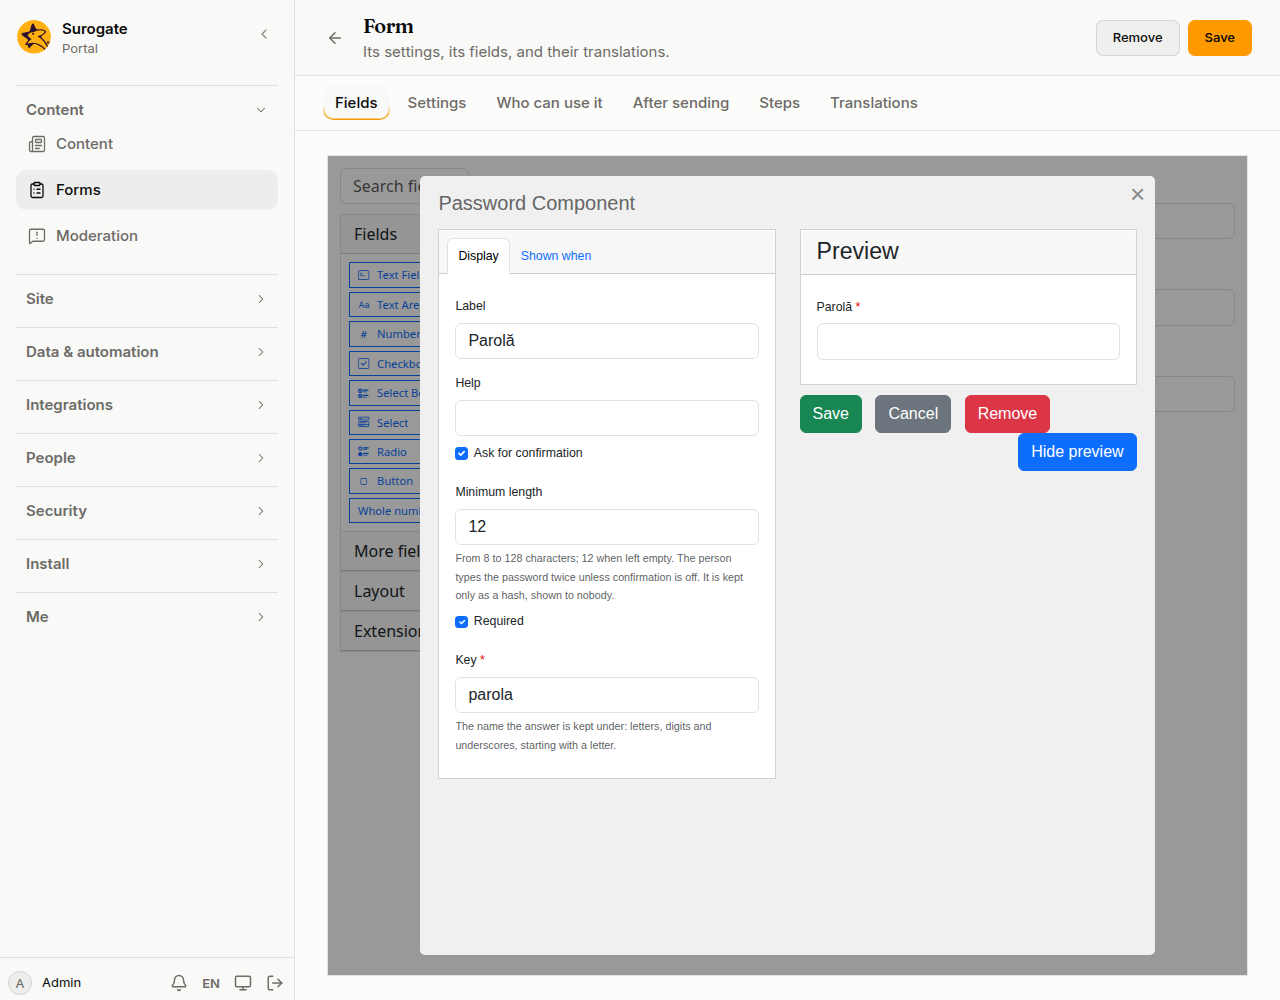
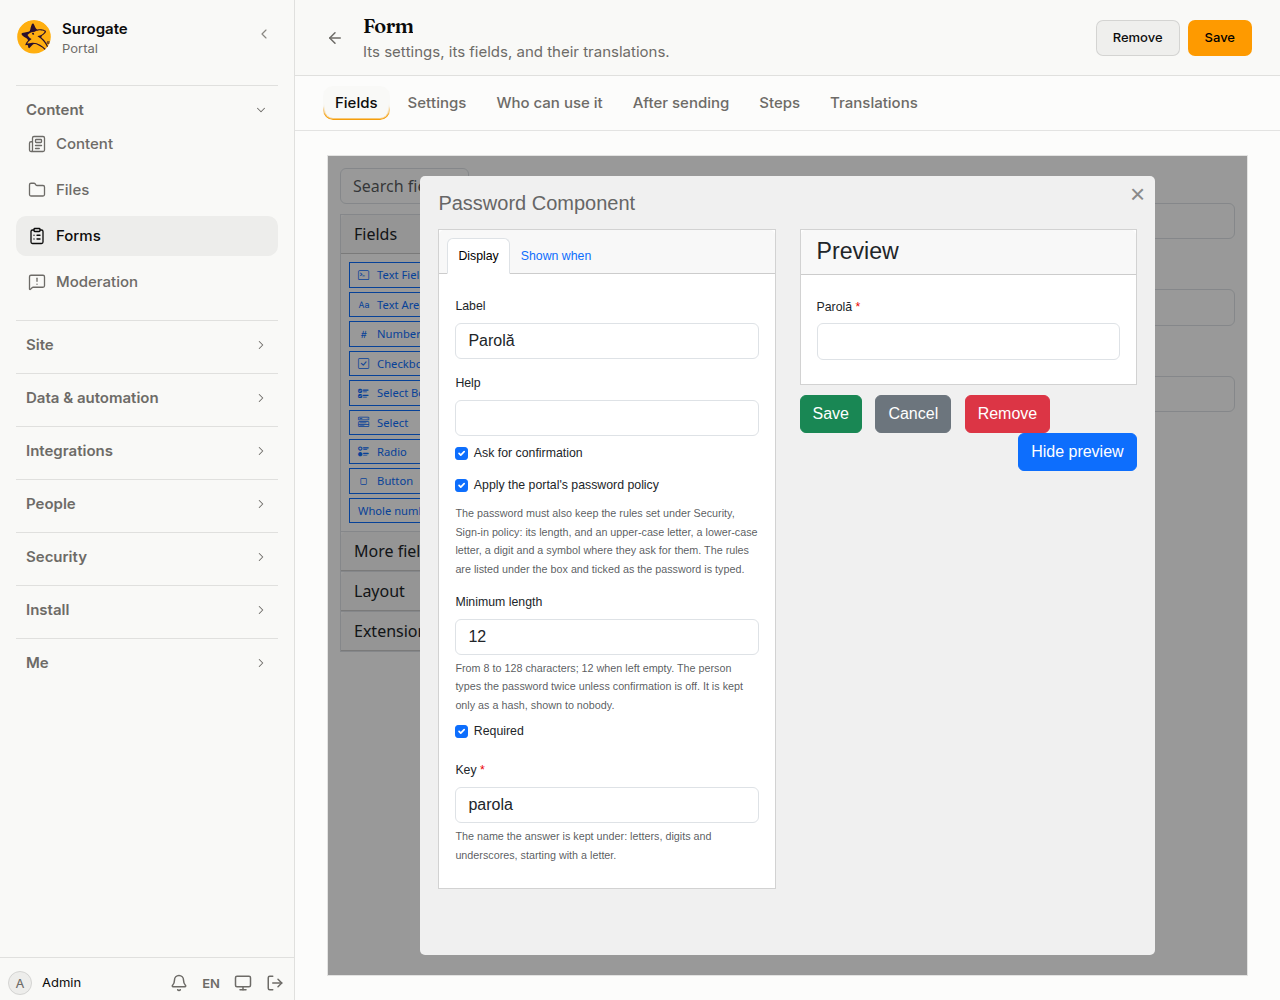
docs(portal): the password field can apply the portal's password policy

diff --git a/src/content/docs/portal/developer/form-fields.md b/src/content/docs/portal/developer/form-fields.md
@@ -410,13 +410,15 @@ The keys behind the **Password** field of [Form fields](/portal/sites/form-field
   input: true
   confirm: true      # default true: two boxes
   minLength: 14      # 8 to 128, default 12
+  applyPolicy: true  # default false: also hold it to the portal's password policy
   validate: { required: true }
 ```
 
+- `applyPolicy`: a boolean. `true` holds the password to the tenant's sign-in policy (`passwordMinLength` and the `password` rules for upper case, lower case, digit and symbol) as it is when the form is sent. Anything else than a boolean is refused with the reason `password_apply_policy`.
 - `confirm`: a boolean. The builder writes `confirm: false` when the box is cleared, and the console's cleaning keeps it.
 - `minLength`: a whole number from 8 to 128, counted in characters. It sits on the field, not under `validate`.
 - `validate` takes only `required`. Any other key is refused with the reason `password_validate`, and a `defaultValue` with `password_default`.
-- Loader reasons, all under the problem code `form_component`: `password_confirm`, `password_min_length`, `password_default`, `password_validate`. A form with `offline: true` that holds the field has the problem `form` with the reason `offline_password`.
+- Loader reasons, all under the problem code `form_component`: `password_confirm`, `password_apply_policy`, `password_min_length`, `password_default`, `password_validate`. A form with `offline: true` that holds the field has the problem `form` with the reason `offline_password`.
 
 ### What is sent
 
@@ -429,8 +431,13 @@ The page sends `{ "value": "…", "confirm": "…" }` when confirmation is asked
 | `password_mismatch` | The two texts differ. |
 | `password_min_length` | Shorter than `minLength`. |
 | `password_max_length` | Longer than 1,024 characters. |
+| `password_policy` | The field has `applyPolicy` and the password breaks the portal's rules. The error carries `rules`, the ids of the rules broken in the order they are shown: `length`, `upper`, `lower`, `digit`, `symbol`. |
 
-The answer is 400 `invalid` with `errors: [{ path, message }]`. It never holds either text.
+The answer is 400 `invalid` with `errors: [{ path, message }]`, and `rules` for `password_policy`. It never holds either text.
+
+### The rules, for the page
+
+`GET /_portal/api/forms/:form/password-policy?site=&locale=` answers `{ minLength, rules: [{ id, text }] }`: the rules of the policy that apply to a field, each worded in the page's language. It answers only for a form that holds a password field with `applyPolicy`, to those who may send the form (anyone else gets 404). The page lists the rules under the box and ticks them as the password is typed. The rules about the person (their email, their name) and the history of passwords are not applied to a form field: the password may be for an account that is not the sender's.
 
 ### What is kept
 
@@ -444,7 +451,7 @@ The hash is not shown anywhere either:
 - **Action runs:** a text of a run's log, outcome or error that holds the hash is replaced by `[hidden]` before it is kept or answered.
 - **Keys the form no longer has:** a value that is a password hash is left out wherever it is read, so a removed or retyped field shows nothing.
 
-The portal's password rules for signing in are not applied to this field: its own `minLength` is the rule.
+Without `applyPolicy`, the portal's password rules for signing in are not applied to the field: its own `minLength` is the rule.
 
 A signed-in person may send a form that holds a password 20 times a minute per form; more is `429 too_many`, before anything is hashed. A field that a condition hides keeps nothing, even with `clearOnHide: false`.
 

diff --git a/src/content/docs/portal/sites/form-field-types.md b/src/content/docs/portal/sites/form-field-types.md
@@ -230,11 +230,12 @@ The **Password** field asks a person for a password they choose, such as when a 
 
 In the form builder, open **More fields** and drag in **Password**. Click the field's edit button to open its dialog:
 
-![The form builder's Password dialog: Label, Help, Ask for confirmation ticked, Minimum length 12, Required and Key, with a preview of the field.](../../../../assets/screenshots/portal-fields-password-builder.png)
+![The form builder's Password dialog: Label, Help, Ask for confirmation and Apply the portal's password policy ticked, Minimum length 12, Required and Key, with a preview of the field.](../../../../assets/screenshots/portal-fields-password-builder.png)
 
 - **Label** and **Help**: the text above the field and a hint under it.
 - **Ask for confirmation**: ticked, the person types the password twice. It is ticked unless you clear it.
-- **Minimum length**: from 8 to 128 characters. Left empty, it is 12.
+- **Apply the portal's password policy**: ticked, the password must also keep the rules set under **Security**, **Sign-in policy**: the length, and an upper-case letter, a lower-case letter, a digit and a symbol where the policy asks for them. Left clear, only the field's own **Minimum length** applies. What names the person (their email or name) is not asked of this field, since the password may be for an account that is not theirs, and nor is the history of earlier passwords.
+- **Minimum length**: from 8 to 128 characters. Left empty, it is 12. When the policy asks for more characters, the policy's length also has to be kept.
 - **Required**: the form cannot be sent without a password.
 - **Key**: the name the answer is kept under.
 
@@ -252,7 +253,11 @@ The form is not sent while there is something to put right, and the message is n
 - **The password must have at least 12 characters.** appears when the password is shorter than the **Minimum length**.
 - A password has at most 1,024 characters.
 
-The portal checks all of this again when the form is sent, so a form sent by other means is refused in the same way. The portal's sign-in password rules are not applied to this field: its own **Minimum length** is the rule.
+When the field applies the portal's password policy, the rules are listed under the box and ticked as the password is typed. The list follows the policy as it is now: change the policy and the form follows. Pressing send with a rule not kept says which ones are still needed.
+
+![The same form with a password that keeps the length and a symbol: the rules are listed under the box, the length and the symbol ticked, an upper-case letter and a digit not yet, and "The password still needs: an upper-case letter, a digit."](../../../../assets/screenshots/portal-fields-password-policy.png)
+
+The portal checks all of this again when the form is sent, so a form sent by other means is refused in the same way, with the rules that are not kept named.
 
 ### Where the password goes
 
